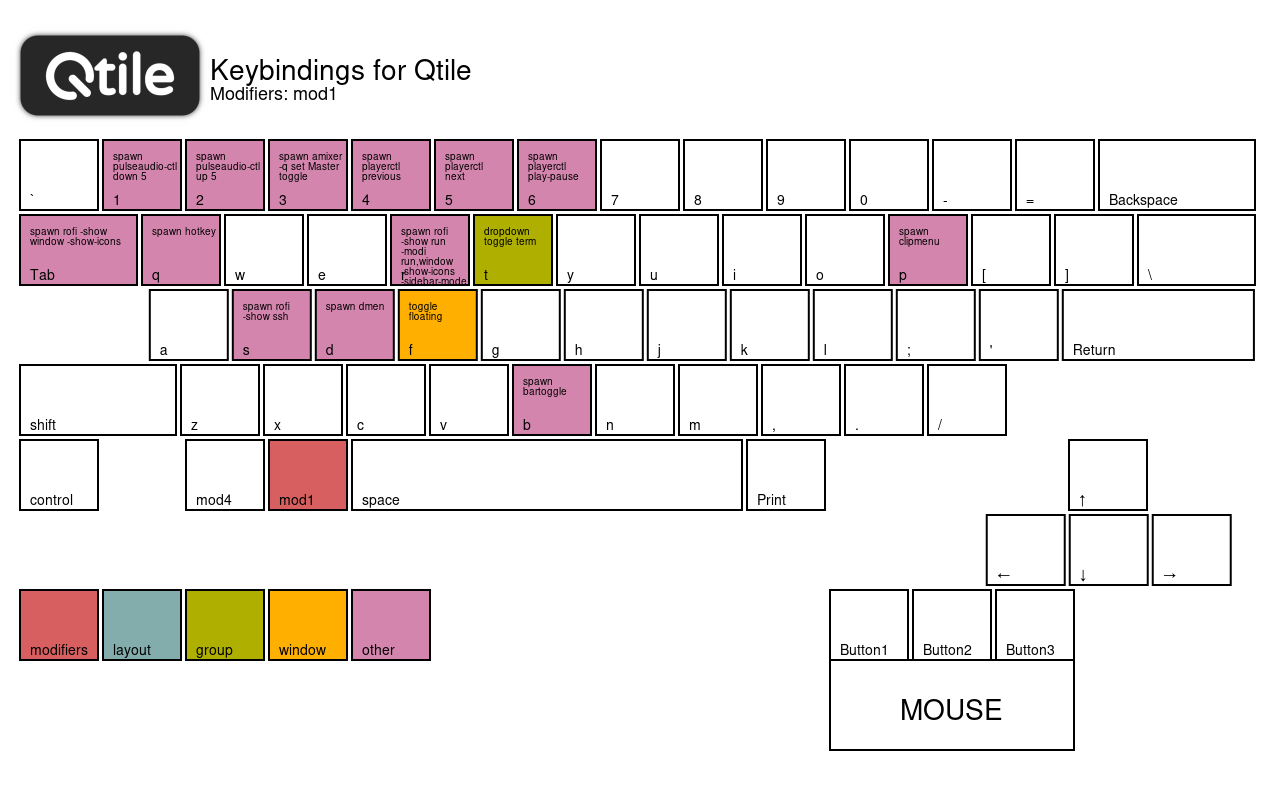
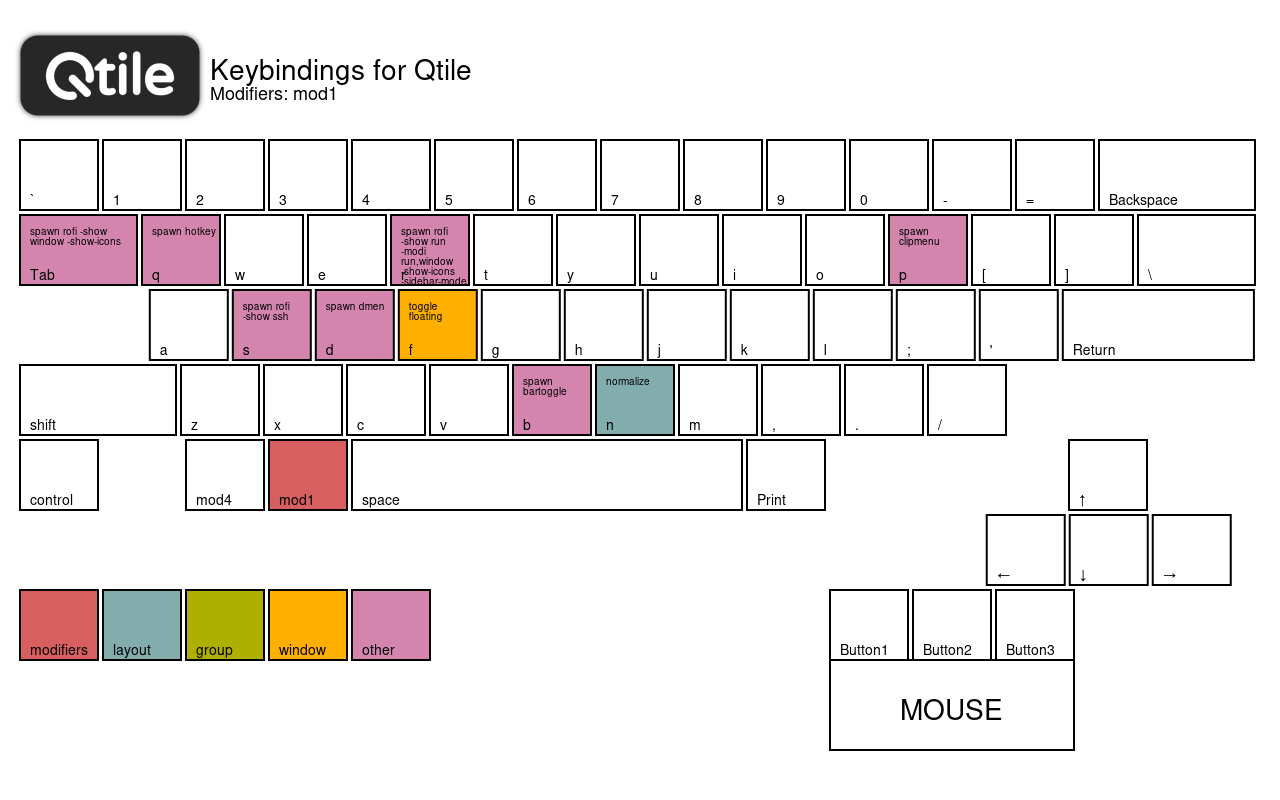
Updated hotkeys and hotkey graphics

Changed region(s): [[0.0625, 0.1562, 0.4688, 0.375], [0.4688, 0.4375, 0.5312, 0.5625]]

diff --git a/config.py b/config.py
@@ -55,19 +55,19 @@ keys = [
     Key([mod, "control"], "k", lazy.layout.grow_up()),
     Key([mod, "control"], "h", lazy.layout.grow_left()),
     Key([mod, "control"], "l", lazy.layout.grow_right()),
-    Key([mod], "n", lazy.layout.normalize()),
-    Key([mod, "shift"], "space", lazy.layout.rotate()),
+    Key(["mod1"], "n", lazy.layout.normalize()),
+    Key([mod], "n", lazy.next_layout()),
     Key([mod], "f", lazy.window.toggle_fullscreen()),
     Key(["mod1"], "f", lazy.window.toggle_floating()),
-    Key([mod, "shift"], "Return", lazy.layout.toggle_split()),
+    Key([mod], "Return", lazy.layout.toggle_split()),
+    Key([mod], "space", lazy.layout.rotate()),
     Key(["mod1"], "b", lazy.spawn("bartoggle")),
-    Key([mod], "space", lazy.next_layout()),
     Key([mod, "shift"], "r", lazy.restart()),
     Key([mod, "shift"], "e", lazy.shutdown()),
     Key([mod], "q", lazy.window.kill()),
-    Key (["mod1"], "t", lazy.group['scratchpad'].dropdown_toggle('term')),
+    Key ([mod], "grave", lazy.group['scratchpad'].dropdown_toggle('term')),
     #Application Hotkeys
-    Key([mod], "Return", lazy.spawn("scrot")),
+    Key([], "Print", lazy.spawn("scrot ~/Pictures/scrots")),
     Key([mod], "w", lazy.spawn("firefox")),
     Key([mod], "e", lazy.spawn("emacs")),
     Key([mod], "r", lazy.spawn("liferea")),
@@ -80,12 +80,12 @@ keys = [
     Key([mod], "b", lazy.spawn("pcmanfm-qt")),
     Key([mod], "d", lazy.spawn("discord")),
     #Audio and Media
-    Key(["mod1"], '1', lazy.spawn('pulseaudio-ctl down 5')),
-    Key(["mod1"], '2', lazy.spawn('pulseaudio-ctl up 5')),
-    Key(["mod1"], '3', lazy.spawn("amixer -q set Master toggle")),
-    Key(["mod1"], '4', lazy.spawn("playerctl previous")),
-    Key(["mod1"], '5', lazy.spawn("playerctl next")),
-    Key(["mod1"], '6', lazy.spawn("playerctl play-pause")),
+    Key([mod], 'Page_Down', lazy.spawn('pulseaudio-ctl down 5')),
+    Key([mod], 'Page_Up', lazy.spawn('pulseaudio-ctl up 5')),
+    Key([mod], 'End', lazy.spawn("amixer -q set Master toggle")),
+    Key([mod], 'Left', lazy.spawn("playerctl previous")),
+    Key([mod], 'Right', lazy.spawn("playerctl next")),
+    Key([mod], 'Down', lazy.spawn("playerctl play-pause")),
     #Launcher & App Switcher
     Key(["mod1"], "d", lazy.spawn("dmen")),
     Key(["mod1"], "r", lazy.spawn("rofi -show run -modi run,window -show-icons -sidebar-mode")),
@@ -162,7 +162,6 @@ floating_layout = layout.Floating(
     {'wmclass': 'splash'},
     {'wmclass': 'steam'},
     {'wmclass': 'toolbar'},
-    {'wmclass': 'vlc'},
     {'wmclass': 'gcolor3'},
     {'wmclass': 'qalculate-gtk'},
     {'wname': 'pinentry'},
